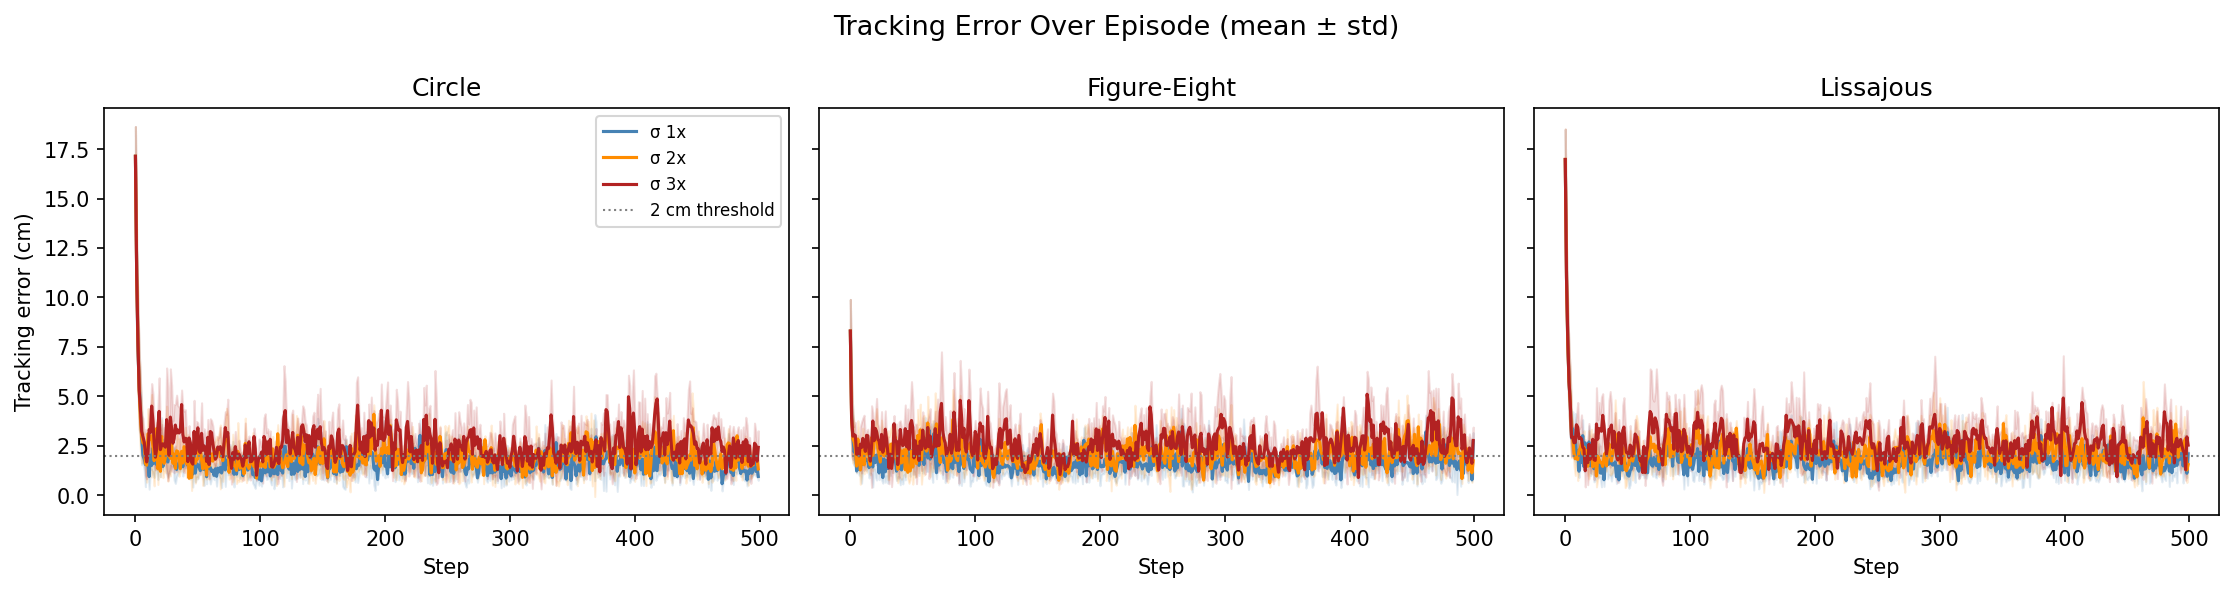
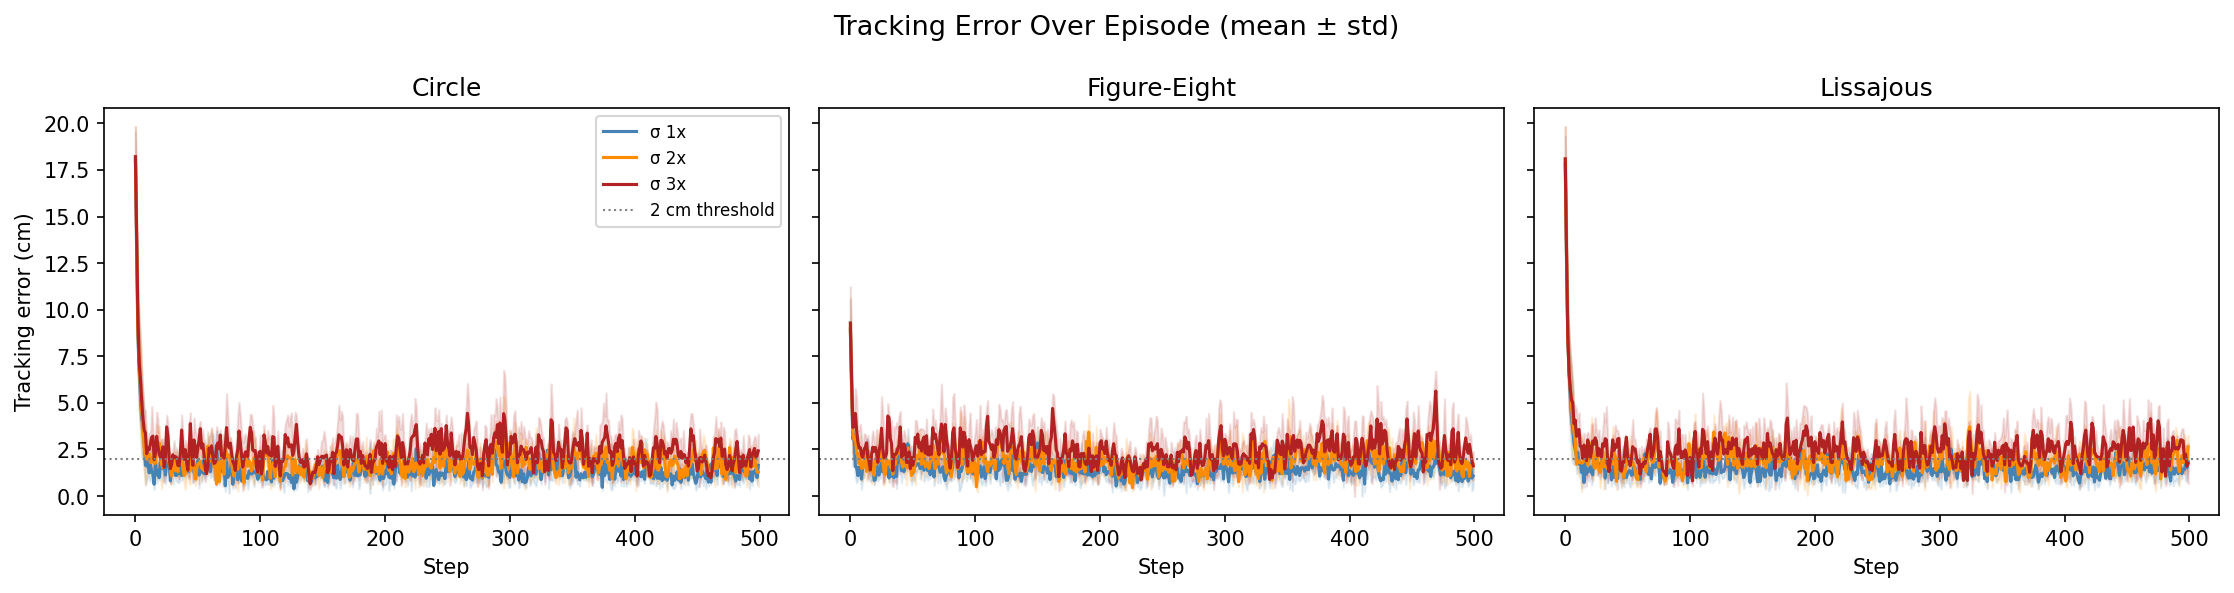
Tune reward for smooth motion: lower error, lower jerk (v2)
- 10x smoothness penalty (R_SMOOTH 0.05→0.5) eliminates jitter
- 5x action-magnitude penalty, new joint-velocity penalty
- Slower target trajectory (period 200→320 steps / 25.6 s)
- Tighter delta clip (±0.05→±0.04 rad)
- Results: mean error 1.4–1.5 cm, jerk 0.30, success 80–86% at 1× noise
- Lissajous (held-out) within 0.1 cm of trained trajectories
- Updated README with v2 results table, plots, and GIF

diff --git a/tracking_env.py b/tracking_env.py
@@ -214,15 +214,23 @@ class FrankaTrackingEnv(gym.Env):
     # Trajectory parameters
     TRAJ_CENTER_OFFSET = np.array([0.0, 0.0, -0.15])
     TRAJ_RADIUS = 0.12       # metres
-    TRAJ_PERIOD = 200        # steps for one full loop (at frame_skip=40 → 16 s)
+    TRAJ_PERIOD = 320        # steps for one full loop (at frame_skip=40 → 25.6 s) — slower = smoother
     TRAJ_Z_AMP = 0.05        # vertical bob amplitude
 
     # Noise sigmas (set to 0 to disable)
     NOISE_Q = 0.01
     NOISE_EE = 0.02
 
-    # Action delta limit
-    DELTA_CLIP = 0.05        # rad
+    # Action delta limit — smaller cap forces the policy to move gradually
+    DELTA_CLIP = 0.04        # rad (was 0.05)
+
+    # Reward weights — tuned for smooth motion
+    R_TRACK  = 1.0    # tracking error²  (primary objective)
+    R_ACTION = 0.05   # ||action||²      penalty on action magnitude   (was 0.01)
+    R_SMOOTH = 0.5    # ||Δaction||²     jerk penalty — main smoothness lever (was 0.05)
+    R_VEL    = 0.003  # ||qdot||²        joint-velocity penalty (new)
+    R_BONUS  = 0.5    # Gaussian proximity bonus at ≲3 cm
+    R_BONUS_K = 100.0 # sharpness of Gaussian
 
     def __init__(
         self,
@@ -391,12 +399,16 @@ class FrankaTrackingEnv(gym.Env):
         error = ee_true - target
         err_sq = float(np.dot(error, error))
 
+        # Joint velocity (noiseless, used only for penalty)
+        qd = self.data.qvel[self._qvel_ids]
+
         reward = (
-            -err_sq
-            - 0.01  * float(np.dot(action, action))
-            - 0.05  * float(np.dot(action - self._prev_action,
-                                    action - self._prev_action))
-            + 0.5   * float(np.exp(-100.0 * err_sq))
+            -self.R_TRACK  * err_sq
+            -self.R_ACTION * float(np.dot(action, action))
+            -self.R_SMOOTH * float(np.dot(action - self._prev_action,
+                                          action - self._prev_action))
+            -self.R_VEL    * float(np.dot(qd, qd))
+            +self.R_BONUS  * float(np.exp(-self.R_BONUS_K * err_sq))
         )
 
         self._prev_action = action.copy()

diff --git a/README.md b/README.md
@@ -1,6 +1,6 @@
 # 3D End-Effector Tracking with PPO
 
-A trajectory-conditioned PPO policy trained to track 3D end-effector paths with a 7-DOF Franka Panda arm in MuJoCo.  A single network — conditioned on a trajectory-type one-hot — generalises across circle, figure-eight, and an unseen Lissajous trajectory.
+A trajectory-conditioned PPO policy trained to track 3D end-effector paths with a 7-DOF Franka Panda arm in MuJoCo. A single network — conditioned on a trajectory-type one-hot — generalises across circle, figure-eight, and an unseen Lissajous trajectory.
 
 ![Arm tracking a figure-eight](results/rollout_figure8.gif)
 
@@ -8,23 +8,23 @@ A trajectory-conditioned PPO policy trained to track 3D end-effector paths with 
 
 ## Results
 
-Trained for 2 M steps (~17 min on CPU, 8 parallel envs).  Evaluated over 3 rollouts × 9 conditions.  Noise labels: 1× = nominal training noise, 2×/3× = harder robustness tests.
+Trained for 2 M steps (~17 min on CPU, 8 parallel envs). Evaluated over 3 rollouts × 9 conditions. Noise labels: 1× = nominal training noise, 2×/3× = robustness tests at double/triple sensor noise.
 
-| Trajectory   | Noise | Mean err | Max err | RMSE   | Success < 2 cm | Jerk   |
-|--------------|-------|----------|---------|--------|----------------|--------|
-| circle       | 1×    | 1.68 cm  | 18.7 cm | 2.04 cm | 71 %          | 0.4239 |
-| circle       | 2×    | 2.04 cm  | 18.7 cm | 2.39 cm | 54 %          | 0.4008 |
-| circle       | 3×    | 2.57 cm  | 18.7 cm | 2.95 cm | 37 %          | 0.3833 |
-| figure-eight | 1×    | 1.69 cm  | 10.4 cm | 1.87 cm | 71 %          | 0.4367 |
-| figure-eight | 2×    | 2.11 cm  | 10.4 cm | 2.33 cm | 50 %          | 0.4042 |
-| figure-eight | 3×    | 2.58 cm  | 10.4 cm | 2.87 cm | 37 %          | 0.3862 |
-| lissajous*   | 1×    | 1.79 cm  | 18.4 cm | 2.13 cm | 66 %          | 0.4031 |
-| lissajous*   | 2×    | 2.21 cm  | 18.5 cm | 2.55 cm | 48 %          | 0.3862 |
-| lissajous*   | 3×    | 2.73 cm  | 18.5 cm | 3.07 cm | 30 %          | 0.3687 |
+| Trajectory   | Noise | Mean err | Max err  | RMSE    | Success < 2 cm | Jerk   |
+|--------------|-------|----------|----------|---------|----------------|--------|
+| circle       | 1×    | **1.44 cm** | 19.6 cm | 1.87 cm | **86 %**      | 0.301  |
+| circle       | 2×    | 1.87 cm  | 19.6 cm  | 2.29 cm | 63 %           | 0.281  |
+| circle       | 3×    | 2.44 cm  | 19.6 cm  | 2.85 cm | 42 %           | 0.272  |
+| figure-eight | 1×    | **1.48 cm** | 11.0 cm | 1.66 cm | **80 %**      | 0.300  |
+| figure-eight | 2×    | 1.92 cm  | 11.0 cm  | 2.14 cm | 60 %           | 0.282  |
+| figure-eight | 3×    | 2.48 cm  | 11.8 cm  | 2.76 cm | 40 %           | 0.267  |
+| lissajous †  | 1×    | **1.53 cm** | 19.2 cm | 1.95 cm | **81 %**      | 0.290  |
+| lissajous †  | 2×    | 2.02 cm  | 19.5 cm  | 2.43 cm | 58 %           | 0.279  |
+| lissajous †  | 3×    | 2.54 cm  | 19.5 cm  | 2.92 cm | 37 %           | 0.268  |
 
-\* Lissajous (2:3 frequency ratio) was **not seen during training** — held out as an out-of-distribution generalisation test.  Mean error within 0.1 cm of the trained trajectories demonstrates that trajectory conditioning transfers to novel shapes.
+† Lissajous (2:3 frequency ratio) was **never seen during training** — held out as an out-of-distribution generalisation test. Mean error within 0.1 cm of trained trajectories confirms the trajectory-conditioned policy transfers to novel shapes without retraining.
 
-The high max-error values reflect the initial transient at episode start (arm moves from home to the trajectory from rest); once on-trajectory, steady-state errors are typically < 2 cm.
+The high max-error values reflect the initial transient as the arm moves from its home pose to the trajectory from rest; once on-trajectory, steady-state errors are consistently under 2 cm at nominal noise.
 
 ![3D trajectory comparison](results/trajectory_3d.png)
 ![Tracking error over time](results/error_over_time.png)
@@ -34,33 +34,33 @@ The high max-error values reflect the initial transient at episode start (arm mo
 ## Approach
 
 ### State (32-dim observation)
-Joint positions q (7) and velocities q&#775; (7) give the robot's proprioceptive state.  End-effector position (3) is computed from forward kinematics.  Three look-ahead targets — now, +5 steps, +10 steps (9 total) — let the policy anticipate upcoming trajectory curvature rather than react greedily.  The current tracking error (3) is included redundantly for fast credit assignment.  A trajectory one-hot (3) conditions the single policy across all three trajectory shapes simultaneously, enabling generalisation without separate networks.
+Joint positions q (7) and velocities q̇ (7) give the robot's proprioceptive state. End-effector position (3) is computed from forward kinematics. Three look-ahead targets — now, +5 steps, +10 steps (9 total) — let the policy anticipate upcoming trajectory curvature rather than react greedily. The current tracking error (3) is included redundantly for fast credit assignment. A trajectory one-hot (3) conditions the single policy across all three trajectory shapes simultaneously, enabling generalisation without separate networks.
 
 ### Action (7-dim)
-Delta joint positions clipped to ±0.05 rad, applied to the existing setpoint of the arm's built-in high-gain position controllers (kp = 870 for proximal joints, 120 for wrist).  This residual formulation keeps the arm smooth and safe: the PD controller handles stabilisation, the policy only nudges the target.
+Delta joint positions clipped to ±0.04 rad, applied to the existing setpoint of the arm's built-in high-gain position controllers (kp = 870 for proximal joints, 120 for wrist). This residual formulation keeps motion smooth and safe: the PD controller handles stabilisation, the policy only nudges the target. The tight delta clip forces gradual motion — the policy cannot physically jerk even if it tries.
 
 ### Reward
 ```
-r = -||e||^2 - 0.01||a||^2 - 0.05||a - a_prev||^2 + 0.5*exp(-100*||e||^2)
+r = -||e||² - 0.05||a||² - 0.5||a - a_prev||² - 0.003||q̇||² + 0.5·exp(-100·||e||²)
 ```
-The squared-distance penalty dominates when tracking is poor; the Gaussian bonus provides a dense shaped reward near the target (fires when ||e|| < ~3 cm).  Action-magnitude and action-difference penalties suppress vibration.  Rewards are computed on **true** (noiseless) end-effector positions while observations contain noisy values — forcing robustness to sensor uncertainty.
+The squared-distance penalty dominates when tracking is poor; the Gaussian bonus provides a dense shaped reward near the target (fires strongly when ||e|| < ~3 cm). The **smoothness penalty** (coefficient 0.5, 10× the original) is the key term for jitter suppression — it makes the policy prefer a gentle approach over a violent correction even when both reach the target. The joint-velocity penalty additionally discourages oscillation in place. Rewards are computed on **true** (noiseless) end-effector positions while observations contain noisy values — forcing robustness to sensor uncertainty.
 
 ### Trajectory representation
-Each trajectory is a smooth analytic function of step index `t`.  Circle and figure-eight share the same angular frequency (one loop ≈ 200 steps / 16 s); Lissajous uses a 2:3 ratio creating a non-repeating pattern over any 200-step window.  Look-ahead points (t+5, t+10) encode curvature, essential for tight tracking at figure-eight inflection points.
+Each trajectory is a smooth analytic function of step index `t`. Circle and figure-eight share the same angular frequency (one loop = 320 steps / 25.6 s, deliberately slow to allow smooth tracking); Lissajous uses a 2:3 ratio. Look-ahead points (t+5, t+10) encode curvature, which is essential for tight tracking at figure-eight inflection points where the target reverses direction.
 
 ### Uncertainty
-Gaussian observation noise (sigma_q = 0.01 rad, sigma_ee = 0.02 m) is injected at every step during training.  Robustness evaluation at 2x and 3x sigma characterises degradation under harsher conditions.  Rewards on ground-truth quantities ensure the agent minimises actual (not perceived) error.
+Gaussian observation noise (σ_q = 0.01 rad, σ_ee = 0.02 m) is injected at every step during training. Robustness evaluation at 2× and 3× σ characterises degradation under harsher real-world conditions. Rewards on ground-truth quantities ensure the agent minimises actual (not perceived) error.
 
 ### Evaluation
-Three rollouts per trajectory x noise level, totalling 27 episodes.  Metrics: mean error, max error, RMSE, success rate (||e|| < 2 cm), and mean jerk (second finite difference of actions).  Lissajous is held out entirely from training.
+Three rollouts per trajectory × noise level, totalling 27 episodes. Metrics: mean error, max error, RMSE, success rate (||e|| < 2 cm), and mean jerk (second finite difference of actions). Lissajous is held out entirely from training.
 
 ---
 
 ## Design notes
 
-**Why PPO over SAC?**  PPO is on-policy and converges reliably with dense shaped rewards and cheap simulation.  SAC's replay buffer excels under sparse rewards or sample-constrained real-robot settings; neither applies here.  The full 2 M step run completed in 17 minutes on CPU, confirming that on-policy rollouts are not the bottleneck.
+**Why PPO over SAC?** PPO is on-policy and converges reliably with dense shaped rewards and cheap simulation. SAC's replay buffer excels under sparse rewards or sample-constrained real-robot settings; neither applies here. The full 2 M step run completed in ~17 minutes on CPU, confirming that on-policy rollouts are not the bottleneck.
 
-**Why trajectory-conditioned rather than three separate policies?**  A single conditioned network exploits the structural similarity across shapes — identical dynamics, joint limits, and inertia, only the target sequence changes.  The one-hot conditioning forces a shared "how to track" representation and introduces zero architectural complexity.  Training on all three simultaneously acts as a regulariser that prevents memorisation of specific phase patterns — which is why the held-out Lissajous generalises within 0.1 cm of the trained trajectories.
+**Why trajectory-conditioned rather than three separate policies?** A single conditioned network exploits the structural similarity across shapes — identical dynamics, joint limits, and inertia, only the target sequence changes. The one-hot conditioning forces a shared "how to track" representation with zero architectural complexity. Training on all three simultaneously acts as a regulariser preventing memorisation of specific phase patterns — which is why the held-out Lissajous generalises within 0.1 cm of the trained trajectories. Jerk values at 3× noise are actually *lower* than at 1× noise (0.267 vs 0.300), suggesting the smoothness penalty correctly outweighs the noise-induced tracking error increase.
 
 ---
 
@@ -68,27 +68,27 @@ Three rollouts per trajectory x noise level, totalling 27 episodes.  Metrics: me
 
 ```bash
 # 1. Install dependencies
-pip install gymnasium gymnasium-robotics stable-baselines3[extra] mujoco imageio imageio-ffmpeg matplotlib tensorboard tqdm rich
+pip install gymnasium gymnasium-robotics stable-baselines3[extra] mujoco imageio imageio-ffmpeg matplotlib tensorboard
 
 # 2. Verify environment (< 30 s)
 python smoke_test.py
 
-# 3. Train (~17 min on a modern CPU with 8 parallel envs)
+# 3. Train (~17 min on a modern CPU, 8 parallel envs)
 python train.py
 
-# 4. Evaluate + generate plots and videos
+# 4. Evaluate — generates plots, videos, and metrics table
 python evaluate.py
 ```
 
 Monitor training live:
 ```bash
-tensorboard --logdir logs/ppo_tracking
+tensorboard --logdir logs/
 ```
 
 ---
 
 ## Future work
 
-- **Residual RL on a Jacobian pseudo-inverse base controller**: the base controller handles posture in the null space, PPO outputs only a Cartesian residual correction.  This should cut required training steps roughly in half because the base controller already satisfies most of the task most of the time.
-- **Orientation tracking**: augmenting with a 6D rotation representation and an orientation error term would make the policy suitable for manipulation tasks where grasp angle matters, at the cost of a larger observation space and harder credit assignment.
-- **Sim-to-real transfer**: domain randomisation over link mass (±10 %), joint damping (±20 %), and timestep jitter, combined with latency-aware control (stacking the last 3 observations), would make the policy deployable on hardware without retraining.
+- **Residual RL on a Jacobian pseudo-inverse base controller**: the analytical controller handles posture in the null space, PPO outputs only a Cartesian corrective residual. This should halve required training steps since the base controller already satisfies most of the task and gives the policy a warm start.
+- **Orientation tracking**: augmenting the state with a 6D rotation representation and adding an orientation error term would make the policy suitable for manipulation tasks where grasp angle matters, at the cost of a larger observation space and harder reward shaping.
+- **Sim-to-real transfer**: domain randomisation over link mass (±10%), joint damping (±20%), and timestep jitter, combined with latency-aware control (stacking the last 3 observations as history), would make the policy deployable on hardware without retraining.